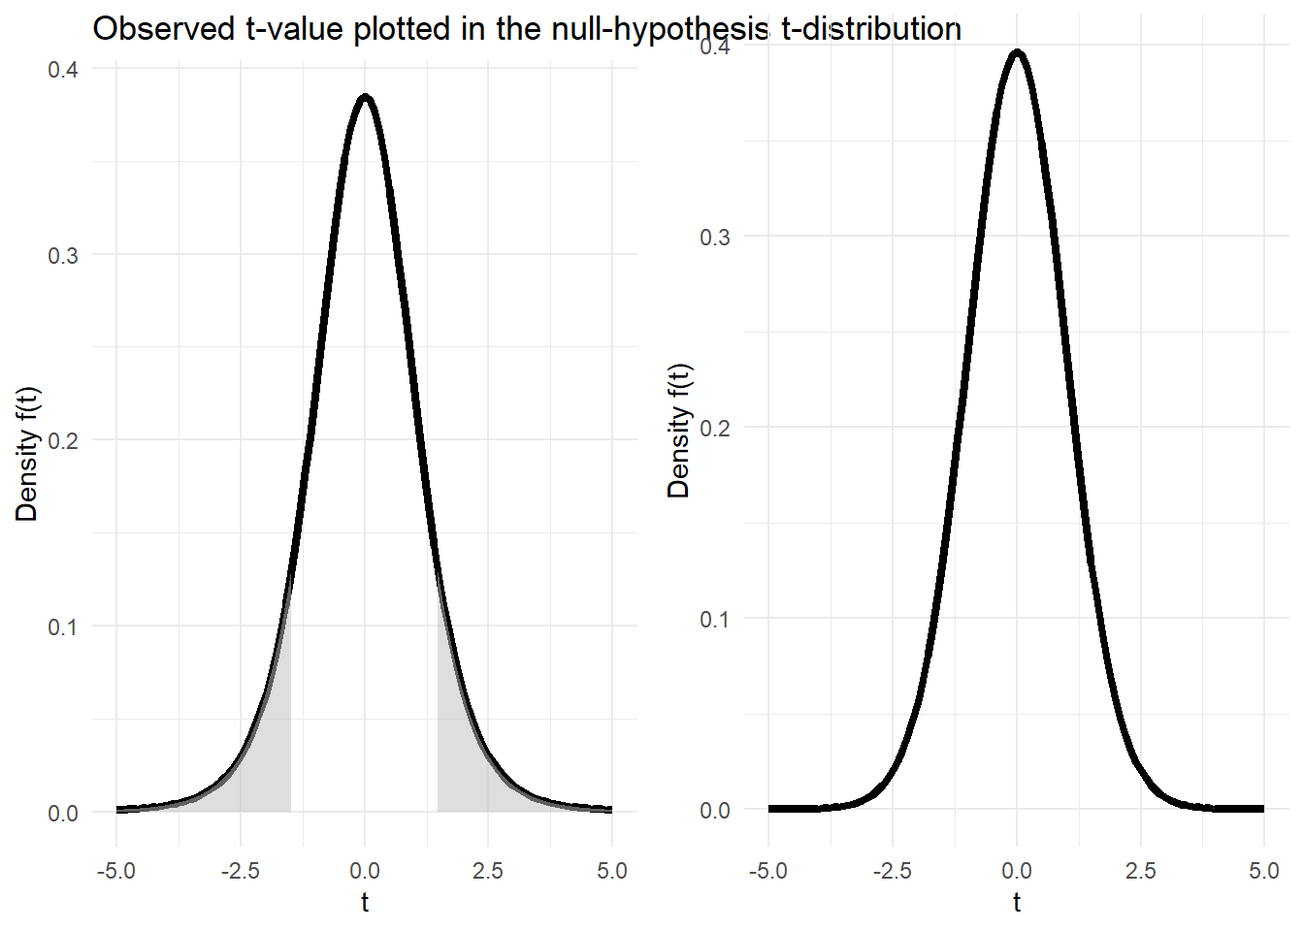
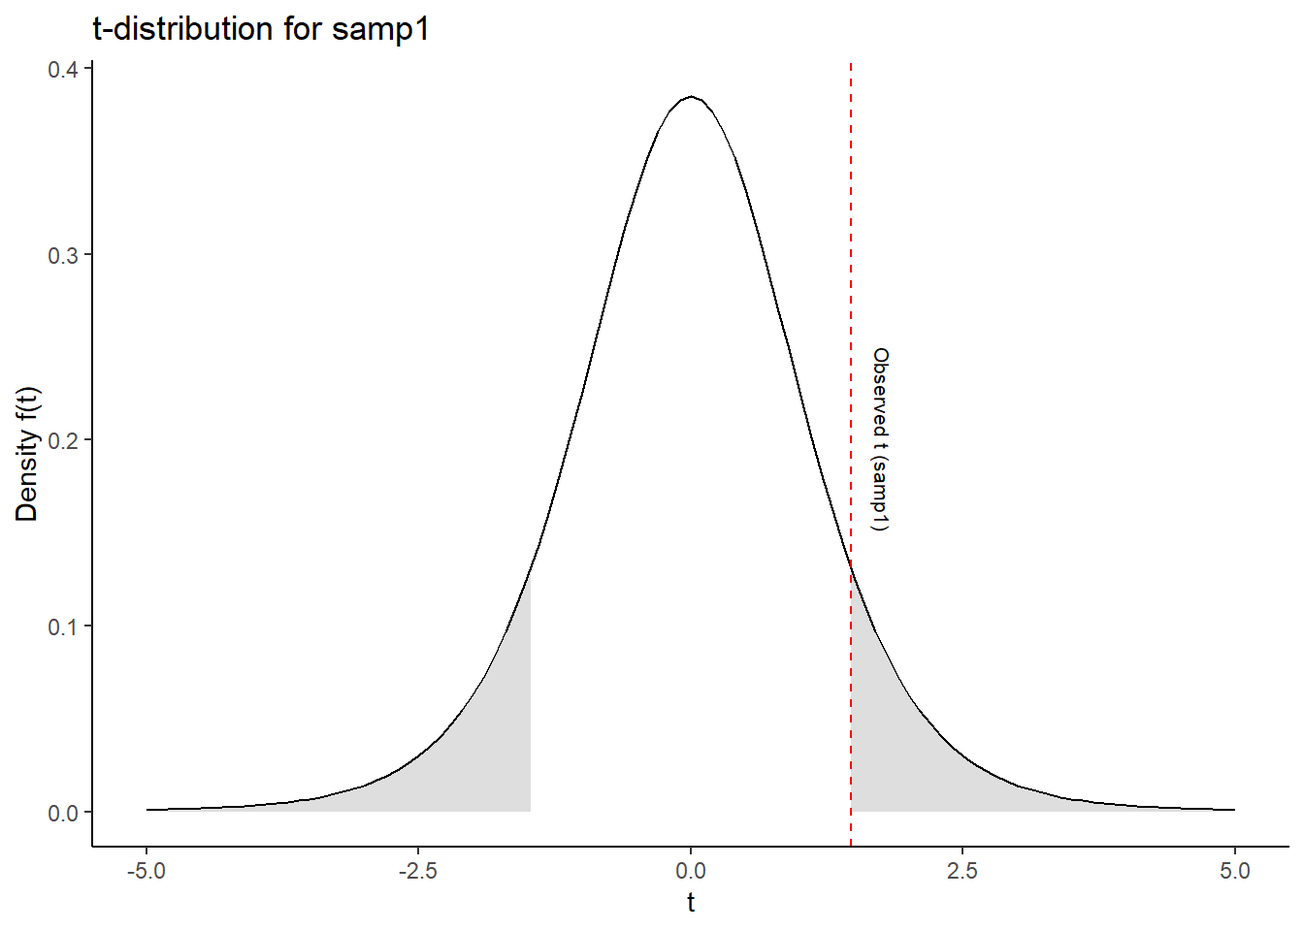
La til referanser, samt gjorde endringer inne i R-scriptet
La til referanse, og overførte endringene fra R-scriptet over til Quarto.

diff --git a/assignment3.html b/assignment3.html
@@ -55,7 +55,27 @@ div.sourceCode
 @media screen {
 pre > code.sourceCode > span > a:first-child::before { text-decoration: underline; }
 }
-</style>
+/* CSS for citations */
+div.csl-bib-body { }
+div.csl-entry {
+  clear: both;
+  margin-bottom: 0em;
+}
+.hanging-indent div.csl-entry {
+  margin-left:2em;
+  text-indent:-2em;
+}
+div.csl-left-margin {
+  min-width:2em;
+  float:left;
+}
+div.csl-right-inline {
+  margin-left:2em;
+  padding-left:1em;
+}
+div.csl-indent {
+  margin-left: 2em;
+}</style>
 
 
 <script src="assignment3_files/libs/clipboard/clipboard.min.js"></script>
@@ -155,7 +175,7 @@ window.Quarto = {
 <span id="cb1-16"><a href="#cb1-16" aria-hidden="true" tabindex="-1"></a>m1 <span class="ot">&lt;-</span> <span class="fu">lm</span>(y <span class="sc">~</span> <span class="dv">1</span>, <span class="at">data =</span> samp1)</span>
 <span id="cb1-17"><a href="#cb1-17" aria-hidden="true" tabindex="-1"></a>m2 <span class="ot">&lt;-</span> <span class="fu">lm</span>(y <span class="sc">~</span> <span class="dv">1</span>, <span class="at">data =</span> samp2)</span>
 <span id="cb1-18"><a href="#cb1-18" aria-hidden="true" tabindex="-1"></a></span>
-<span id="cb1-19"><a href="#cb1-19" aria-hidden="true" tabindex="-1"></a><span class="co"># Oppsummering av modellen m1</span></span>
+<span id="cb1-19"><a href="#cb1-19" aria-hidden="true" tabindex="-1"></a><span class="co"># Oppsummering av modellene </span></span>
 <span id="cb1-20"><a href="#cb1-20" aria-hidden="true" tabindex="-1"></a><span class="fu">summary</span>(m1)</span></code><button title="Copy to Clipboard" class="code-copy-button"><i class="bi"></i></button></pre></div>
 </details>
 <div class="cell-output cell-output-stdout">
@@ -173,39 +193,59 @@ Coefficients:
 
 Residual standard error: 3.539 on 7 degrees of freedom</code></pre>
 </div>
+<details class="code-fold">
+<summary>Code</summary>
+<div class="sourceCode cell-code" id="cb3"><pre class="sourceCode r code-with-copy"><code class="sourceCode r"><span id="cb3-1"><a href="#cb3-1" aria-hidden="true" tabindex="-1"></a><span class="fu">summary</span>(m2)</span></code><button title="Copy to Clipboard" class="code-copy-button"><i class="bi"></i></button></pre></div>
+</details>
+<div class="cell-output cell-output-stdout">
+<pre><code>
+Call:
+lm(formula = y ~ 1, data = samp2)
+
+Residuals:
+    Min      1Q  Median      3Q     Max 
+-5.6557 -2.2883  0.2636  2.2549  6.4212 
+
+Coefficients:
+            Estimate Std. Error t value Pr(&gt;|t|)   
+(Intercept)   1.5642     0.4774   3.276  0.00221 **
+---
+Signif. codes:  0 '***' 0.001 '**' 0.01 '*' 0.05 '.' 0.1 ' ' 1
+
+Residual standard error: 3.019 on 39 degrees of freedom</code></pre>
+</div>
 </div>
 <p>Under kan man se en …. som viser t-fordelingen av dei ulike lineære modellene, der det skyggelagte området er dei observerte p-verdiene.</p>
 <div class="cell">
 <details class="code-fold">
 <summary>Code</summary>
-<div class="sourceCode cell-code" id="cb3"><pre class="sourceCode r code-with-copy"><code class="sourceCode r"><span id="cb3-1"><a href="#cb3-1" aria-hidden="true" tabindex="-1"></a><span class="co"># Definer t-verdi </span></span>
-<span id="cb3-2"><a href="#cb3-2" aria-hidden="true" tabindex="-1"></a>t_value1 <span class="ot">&lt;-</span> <span class="fl">1.47</span></span>
-<span id="cb3-3"><a href="#cb3-3" aria-hidden="true" tabindex="-1"></a>t_value2 <span class="ot">&lt;-</span> <span class="fl">3.953</span></span>
-<span id="cb3-4"><a href="#cb3-4" aria-hidden="true" tabindex="-1"></a>df1 <span class="ot">&lt;-</span> <span class="dv">7</span>   <span class="co"># Antall frihetsgrader (n-1, her 8-1=7)</span></span>
-<span id="cb3-5"><a href="#cb3-5" aria-hidden="true" tabindex="-1"></a>df2 <span class="ot">&lt;-</span> <span class="dv">39</span>  <span class="co"># Antall frihetsgrader (n-1, her 40-1=39)</span></span>
-<span id="cb3-6"><a href="#cb3-6" aria-hidden="true" tabindex="-1"></a></span>
-<span id="cb3-7"><a href="#cb3-7" aria-hidden="true" tabindex="-1"></a><span class="co"># Lag dataramme for x-verdier</span></span>
-<span id="cb3-8"><a href="#cb3-8" aria-hidden="true" tabindex="-1"></a>x_vals <span class="ot">&lt;-</span> <span class="fu">seq</span>(<span class="sc">-</span><span class="dv">5</span>, <span class="dv">5</span>, <span class="at">length.out =</span> <span class="dv">1000</span>)</span>
-<span id="cb3-9"><a href="#cb3-9" aria-hidden="true" tabindex="-1"></a></span>
-<span id="cb3-10"><a href="#cb3-10" aria-hidden="true" tabindex="-1"></a><span class="co"># Bruk ggplot for å lage en t-fordeling med skyggelagte områder for modell 1</span></span>
-<span id="cb3-11"><a href="#cb3-11" aria-hidden="true" tabindex="-1"></a>plot1 <span class="ot">&lt;-</span> <span class="fu">ggplot</span>(<span class="fu">data.frame</span>(<span class="at">x =</span> x_vals), <span class="fu">aes</span>(<span class="at">x =</span> x)) <span class="sc">+</span></span>
-<span id="cb3-12"><a href="#cb3-12" aria-hidden="true" tabindex="-1"></a>  <span class="fu">stat_function</span>(<span class="at">fun =</span> dt, <span class="at">args =</span> <span class="fu">list</span>(<span class="at">df =</span> df1), <span class="at">color =</span> <span class="st">"black"</span>, <span class="at">size =</span> <span class="fl">1.5</span>) <span class="sc">+</span>  <span class="co"># T-fordelingskurve</span></span>
-<span id="cb3-13"><a href="#cb3-13" aria-hidden="true" tabindex="-1"></a>  <span class="fu">geom_area</span>(<span class="at">data =</span> <span class="fu">subset</span>(<span class="fu">data.frame</span>(<span class="at">x =</span> x_vals), x <span class="sc">&lt;</span> <span class="sc">-</span>t_value1), <span class="fu">aes</span>(<span class="at">x =</span> x, <span class="at">y =</span> <span class="fu">dt</span>(x, df1)), <span class="at">fill =</span> <span class="st">"gray"</span>, <span class="at">alpha =</span> <span class="fl">0.5</span>) <span class="sc">+</span>  <span class="co"># Venstre hale</span></span>
-<span id="cb3-14"><a href="#cb3-14" aria-hidden="true" tabindex="-1"></a>  <span class="fu">geom_area</span>(<span class="at">data =</span> <span class="fu">subset</span>(<span class="fu">data.frame</span>(<span class="at">x =</span> x_vals), x <span class="sc">&gt;</span> t_value1), <span class="fu">aes</span>(<span class="at">x =</span> x, <span class="at">y =</span> <span class="fu">dt</span>(x, df1)), <span class="at">fill =</span> <span class="st">"gray"</span>, <span class="at">alpha =</span> <span class="fl">0.5</span>) <span class="sc">+</span>   <span class="co"># Høyre hale</span></span>
-<span id="cb3-15"><a href="#cb3-15" aria-hidden="true" tabindex="-1"></a>  <span class="fu">labs</span>(<span class="at">title =</span> <span class="st">"Observed t-value plotted in the null-hypothesis t-distribution"</span>, </span>
-<span id="cb3-16"><a href="#cb3-16" aria-hidden="true" tabindex="-1"></a>       <span class="at">x =</span> <span class="st">"t"</span>, <span class="at">y =</span> <span class="st">"Density f(t)"</span>) <span class="sc">+</span></span>
-<span id="cb3-17"><a href="#cb3-17" aria-hidden="true" tabindex="-1"></a>  <span class="fu">theme_minimal</span>()</span>
-<span id="cb3-18"><a href="#cb3-18" aria-hidden="true" tabindex="-1"></a></span>
-<span id="cb3-19"><a href="#cb3-19" aria-hidden="true" tabindex="-1"></a><span class="co"># Gjør det samme for modell 2</span></span>
-<span id="cb3-20"><a href="#cb3-20" aria-hidden="true" tabindex="-1"></a>plot2 <span class="ot">&lt;-</span> <span class="fu">ggplot</span>(<span class="fu">data.frame</span>(<span class="at">x =</span> x_vals), <span class="fu">aes</span>(<span class="at">x =</span> x)) <span class="sc">+</span></span>
-<span id="cb3-21"><a href="#cb3-21" aria-hidden="true" tabindex="-1"></a>  <span class="fu">stat_function</span>(<span class="at">fun =</span> dt, <span class="at">args =</span> <span class="fu">list</span>(<span class="at">df =</span> df2), <span class="at">color =</span> <span class="st">"black"</span>, <span class="at">size =</span> <span class="fl">1.5</span>) <span class="sc">+</span>  <span class="co"># T-fordelingskurve</span></span>
-<span id="cb3-22"><a href="#cb3-22" aria-hidden="true" tabindex="-1"></a>  <span class="fu">geom_area</span>(<span class="at">data =</span> <span class="fu">subset</span>(<span class="fu">data.frame</span>(<span class="at">x =</span> x_vals), x <span class="sc">&lt;</span> <span class="sc">-</span>t_value2), <span class="fu">aes</span>(<span class="at">x =</span> x, <span class="at">y =</span> <span class="fu">dt</span>(x, df2)), <span class="at">fill =</span> <span class="st">"gray"</span>, <span class="at">alpha =</span> <span class="fl">0.5</span>) <span class="sc">+</span>  <span class="co"># Venstre hale</span></span>
-<span id="cb3-23"><a href="#cb3-23" aria-hidden="true" tabindex="-1"></a>  <span class="fu">geom_area</span>(<span class="at">data =</span> <span class="fu">subset</span>(<span class="fu">data.frame</span>(<span class="at">x =</span> x_vals), x <span class="sc">&gt;</span> t_value2), <span class="fu">aes</span>(<span class="at">x =</span> x, <span class="at">y =</span> <span class="fu">dt</span>(x, df2)), <span class="at">fill =</span> <span class="st">"gray"</span>, <span class="at">alpha =</span> <span class="fl">0.5</span>) <span class="sc">+</span>   <span class="co"># Høyre hale</span></span>
-<span id="cb3-24"><a href="#cb3-24" aria-hidden="true" tabindex="-1"></a>   <span class="fu">labs</span>(<span class="at">x =</span> <span class="st">"t"</span>, <span class="at">y =</span> <span class="st">"Density f(t)"</span>) <span class="sc">+</span></span>
-<span id="cb3-25"><a href="#cb3-25" aria-hidden="true" tabindex="-1"></a>  <span class="fu">theme_minimal</span>()</span>
-<span id="cb3-26"><a href="#cb3-26" aria-hidden="true" tabindex="-1"></a></span>
-<span id="cb3-27"><a href="#cb3-27" aria-hidden="true" tabindex="-1"></a><span class="co"># Kombiner de to plott ved siden av hverandre</span></span>
-<span id="cb3-28"><a href="#cb3-28" aria-hidden="true" tabindex="-1"></a><span class="fu">grid.arrange</span>(plot1, plot2, <span class="at">ncol =</span> <span class="dv">2</span>)</span></code><button title="Copy to Clipboard" class="code-copy-button"><i class="bi"></i></button></pre></div>
+<div class="sourceCode cell-code" id="cb5"><pre class="sourceCode r code-with-copy"><code class="sourceCode r"><span id="cb5-1"><a href="#cb5-1" aria-hidden="true" tabindex="-1"></a><span class="do">## Definer t-verdier for begge utvalg</span></span>
+<span id="cb5-2"><a href="#cb5-2" aria-hidden="true" tabindex="-1"></a>t_value1 <span class="ot">&lt;-</span> <span class="fl">1.47</span>  <span class="co"># t-verdi for samp1</span></span>
+<span id="cb5-3"><a href="#cb5-3" aria-hidden="true" tabindex="-1"></a>t_value2 <span class="ot">&lt;-</span> <span class="fl">3.953</span>  <span class="co"># t-verdi for samp2</span></span>
+<span id="cb5-4"><a href="#cb5-4" aria-hidden="true" tabindex="-1"></a>df1 <span class="ot">&lt;-</span> <span class="dv">7</span>   <span class="co"># Antall frihetsgrader for samp1 (n-1, her 8-1=7)</span></span>
+<span id="cb5-5"><a href="#cb5-5" aria-hidden="true" tabindex="-1"></a>df2 <span class="ot">&lt;-</span> <span class="dv">39</span>  <span class="co"># Antall frihetsgrader for samp2 (n-1, her 40-1=39)</span></span>
+<span id="cb5-6"><a href="#cb5-6" aria-hidden="true" tabindex="-1"></a></span>
+<span id="cb5-7"><a href="#cb5-7" aria-hidden="true" tabindex="-1"></a><span class="co"># Lag dataramme for x-verdier</span></span>
+<span id="cb5-8"><a href="#cb5-8" aria-hidden="true" tabindex="-1"></a>x_vals <span class="ot">&lt;-</span> <span class="fu">seq</span>(<span class="sc">-</span><span class="dv">5</span>, <span class="dv">5</span>, <span class="at">length.out =</span> <span class="dv">1000</span>)</span>
+<span id="cb5-9"><a href="#cb5-9" aria-hidden="true" tabindex="-1"></a></span>
+<span id="cb5-10"><a href="#cb5-10" aria-hidden="true" tabindex="-1"></a><span class="co"># Lag plot for samp1</span></span>
+<span id="cb5-11"><a href="#cb5-11" aria-hidden="true" tabindex="-1"></a>plot1 <span class="ot">&lt;-</span> <span class="fu">ggplot</span>(<span class="fu">data.frame</span>(<span class="at">x =</span> x_vals), <span class="fu">aes</span>(x)) <span class="sc">+</span></span>
+<span id="cb5-12"><a href="#cb5-12" aria-hidden="true" tabindex="-1"></a>  <span class="co"># Fyll venstre hale for samp1</span></span>
+<span id="cb5-13"><a href="#cb5-13" aria-hidden="true" tabindex="-1"></a>  <span class="fu">stat_function</span>(<span class="at">fun =</span> dt, <span class="at">args =</span> <span class="fu">list</span>(<span class="at">df =</span> df1), <span class="at">xlim =</span> <span class="fu">c</span>(<span class="sc">-</span><span class="dv">5</span>, <span class="sc">-</span>t_value1), <span class="at">geom =</span> <span class="st">"area"</span>, <span class="at">fill =</span> <span class="st">"gray"</span>, <span class="at">alpha =</span> <span class="fl">0.5</span>) <span class="sc">+</span></span>
+<span id="cb5-14"><a href="#cb5-14" aria-hidden="true" tabindex="-1"></a>  <span class="co"># Fyll høyre hale for samp1</span></span>
+<span id="cb5-15"><a href="#cb5-15" aria-hidden="true" tabindex="-1"></a>  <span class="fu">stat_function</span>(<span class="at">fun =</span> dt, <span class="at">args =</span> <span class="fu">list</span>(<span class="at">df =</span> df1), <span class="at">xlim =</span> <span class="fu">c</span>(t_value1, <span class="dv">5</span>), <span class="at">geom =</span> <span class="st">"area"</span>, <span class="at">fill =</span> <span class="st">"gray"</span>, <span class="at">alpha =</span> <span class="fl">0.5</span>) <span class="sc">+</span></span>
+<span id="cb5-16"><a href="#cb5-16" aria-hidden="true" tabindex="-1"></a>  <span class="co"># Tegn hele t-fordelingskurven for samp1</span></span>
+<span id="cb5-17"><a href="#cb5-17" aria-hidden="true" tabindex="-1"></a>  <span class="fu">stat_function</span>(<span class="at">fun =</span> dt, <span class="at">args =</span> <span class="fu">list</span>(<span class="at">df =</span> df1)) <span class="sc">+</span></span>
+<span id="cb5-18"><a href="#cb5-18" aria-hidden="true" tabindex="-1"></a>  <span class="co"># Legg til den observerte t-verdien som en vertikal linje</span></span>
+<span id="cb5-19"><a href="#cb5-19" aria-hidden="true" tabindex="-1"></a>  <span class="fu">geom_vline</span>(<span class="at">xintercept =</span> t_value1, <span class="at">color =</span> <span class="st">"red"</span>, <span class="at">linetype =</span> <span class="st">"dashed"</span>) <span class="sc">+</span></span>
+<span id="cb5-20"><a href="#cb5-20" aria-hidden="true" tabindex="-1"></a>  <span class="co"># Annoter t-verdien for samp1</span></span>
+<span id="cb5-21"><a href="#cb5-21" aria-hidden="true" tabindex="-1"></a>  <span class="fu">annotate</span>(<span class="st">"text"</span>, <span class="at">x =</span> t_value1 <span class="sc">+</span> <span class="fl">0.3</span>, <span class="at">y =</span> <span class="fl">0.2</span>, <span class="at">label =</span> <span class="st">"Observed t (samp1)"</span>, <span class="at">angle =</span> <span class="sc">-</span><span class="dv">90</span>, <span class="at">size =</span> <span class="fl">2.8</span>) <span class="sc">+</span></span>
+<span id="cb5-22"><a href="#cb5-22" aria-hidden="true" tabindex="-1"></a>  <span class="fu">labs</span>(<span class="at">title =</span> <span class="st">"t-distribution for samp1"</span>, <span class="at">x =</span> <span class="st">"t"</span>, <span class="at">y =</span> <span class="st">"Density f(t)"</span>) <span class="sc">+</span></span>
+<span id="cb5-23"><a href="#cb5-23" aria-hidden="true" tabindex="-1"></a>  <span class="fu">theme_classic</span>() <span class="sc">+</span></span>
+<span id="cb5-24"><a href="#cb5-24" aria-hidden="true" tabindex="-1"></a>  <span class="fu">xlim</span>(<span class="sc">-</span><span class="dv">5</span>, <span class="dv">5</span>)</span>
+<span id="cb5-25"><a href="#cb5-25" aria-hidden="true" tabindex="-1"></a></span>
+<span id="cb5-26"><a href="#cb5-26" aria-hidden="true" tabindex="-1"></a><span class="co"># Print plot1</span></span>
+<span id="cb5-27"><a href="#cb5-27" aria-hidden="true" tabindex="-1"></a><span class="fu">print</span>(plot1)</span></code><button title="Copy to Clipboard" class="code-copy-button"><i class="bi"></i></button></pre></div>
 </details>
 <div class="cell-output-display">
 <div>
@@ -214,15 +254,51 @@ Residual standard error: 3.539 on 7 degrees of freedom</code></pre>
 </figure>
 </div>
 </div>
+<details class="code-fold">
+<summary>Code</summary>
+<div class="sourceCode cell-code" id="cb6"><pre class="sourceCode r code-with-copy"><code class="sourceCode r"><span id="cb6-1"><a href="#cb6-1" aria-hidden="true" tabindex="-1"></a><span class="co"># Utregne p-verdier for m1</span></span>
+<span id="cb6-2"><a href="#cb6-2" aria-hidden="true" tabindex="-1"></a>p1 <span class="ot">&lt;-</span> <span class="dv">2</span> <span class="sc">*</span> <span class="fu">pt</span>(t_value1, <span class="at">df =</span> df1, <span class="at">lower.tail =</span> <span class="cn">FALSE</span>)</span>
+<span id="cb6-3"><a href="#cb6-3" aria-hidden="true" tabindex="-1"></a></span>
+<span id="cb6-4"><a href="#cb6-4" aria-hidden="true" tabindex="-1"></a><span class="co"># Print p-verdier</span></span>
+<span id="cb6-5"><a href="#cb6-5" aria-hidden="true" tabindex="-1"></a><span class="fu">print</span>(p1)</span></code><button title="Copy to Clipboard" class="code-copy-button"><i class="bi"></i></button></pre></div>
+</details>
+<div class="cell-output cell-output-stdout">
+<pre><code>[1] 0.1850231</code></pre>
+</div>
+<details class="code-fold">
+<summary>Code</summary>
+<div class="sourceCode cell-code" id="cb8"><pre class="sourceCode r code-with-copy"><code class="sourceCode r"><span id="cb8-1"><a href="#cb8-1" aria-hidden="true" tabindex="-1"></a><span class="co"># Lag plot for samp2</span></span>
+<span id="cb8-2"><a href="#cb8-2" aria-hidden="true" tabindex="-1"></a>plot2 <span class="ot">&lt;-</span> <span class="fu">ggplot</span>(<span class="fu">data.frame</span>(<span class="at">x =</span> x_vals), <span class="fu">aes</span>(x)) <span class="sc">+</span></span>
+<span id="cb8-3"><a href="#cb8-3" aria-hidden="true" tabindex="-1"></a>  <span class="co"># Fyll venstre hale for samp2</span></span>
+<span id="cb8-4"><a href="#cb8-4" aria-hidden="true" tabindex="-1"></a>  <span class="fu">stat_function</span>(<span class="at">fun =</span> dt, <span class="at">args =</span> <span class="fu">list</span>(<span class="at">df =</span> df2), <span class="at">xlim =</span> <span class="fu">c</span>(<span class="sc">-</span><span class="dv">5</span>, <span class="sc">-</span>t_value2), <span class="at">geom =</span> <span class="st">"area"</span>, <span class="at">fill =</span> <span class="st">"lightblue"</span>, <span class="at">alpha =</span> <span class="fl">0.5</span>) <span class="sc">+</span></span>
+<span id="cb8-5"><a href="#cb8-5" aria-hidden="true" tabindex="-1"></a>  <span class="co"># Fyll høyre hale for samp2</span></span>
+<span id="cb8-6"><a href="#cb8-6" aria-hidden="true" tabindex="-1"></a>  <span class="fu">stat_function</span>(<span class="at">fun =</span> dt, <span class="at">args =</span> <span class="fu">list</span>(<span class="at">df =</span> df2), <span class="at">xlim =</span> <span class="fu">c</span>(t_value2, <span class="dv">5</span>), <span class="at">geom =</span> <span class="st">"area"</span>, <span class="at">fill =</span> <span class="st">"lightblue"</span>, <span class="at">alpha =</span> <span class="fl">0.5</span>) <span class="sc">+</span></span>
+<span id="cb8-7"><a href="#cb8-7" aria-hidden="true" tabindex="-1"></a>  <span class="co"># Tegn hele t-fordelingskurven for samp2</span></span>
+<span id="cb8-8"><a href="#cb8-8" aria-hidden="true" tabindex="-1"></a>  <span class="fu">stat_function</span>(<span class="at">fun =</span> dt, <span class="at">args =</span> <span class="fu">list</span>(<span class="at">df =</span> df2)) <span class="sc">+</span></span>
+<span id="cb8-9"><a href="#cb8-9" aria-hidden="true" tabindex="-1"></a>  <span class="co"># Legg til den observerte t-verdien som en vertikal linje</span></span>
+<span id="cb8-10"><a href="#cb8-10" aria-hidden="true" tabindex="-1"></a>  <span class="fu">geom_vline</span>(<span class="at">xintercept =</span> t_value2, <span class="at">color =</span> <span class="st">"red"</span>, <span class="at">linetype =</span> <span class="st">"dashed"</span>) <span class="sc">+</span></span>
+<span id="cb8-11"><a href="#cb8-11" aria-hidden="true" tabindex="-1"></a>  <span class="co"># Annoter t-verdien for samp2</span></span>
+<span id="cb8-12"><a href="#cb8-12" aria-hidden="true" tabindex="-1"></a>  <span class="fu">annotate</span>(<span class="st">"text"</span>, <span class="at">x =</span> t_value2 <span class="sc">+</span> <span class="fl">0.3</span>, <span class="at">y =</span> <span class="fl">0.2</span>, <span class="at">label =</span> <span class="st">"Observed t (samp2)"</span>, <span class="at">angle =</span> <span class="sc">-</span><span class="dv">90</span>, <span class="at">size =</span> <span class="fl">2.8</span>) <span class="sc">+</span></span>
+<span id="cb8-13"><a href="#cb8-13" aria-hidden="true" tabindex="-1"></a>  <span class="fu">labs</span>(<span class="at">title =</span> <span class="st">"t-distribution for samp2"</span>, <span class="at">x =</span> <span class="st">"t"</span>, <span class="at">y =</span> <span class="st">"Density f(t)"</span>) <span class="sc">+</span></span>
+<span id="cb8-14"><a href="#cb8-14" aria-hidden="true" tabindex="-1"></a>  <span class="fu">theme_classic</span>() <span class="sc">+</span></span>
+<span id="cb8-15"><a href="#cb8-15" aria-hidden="true" tabindex="-1"></a>  <span class="fu">xlim</span>(<span class="sc">-</span><span class="dv">6</span>, <span class="dv">6</span>)</span>
+<span id="cb8-16"><a href="#cb8-16" aria-hidden="true" tabindex="-1"></a></span>
+<span id="cb8-17"><a href="#cb8-17" aria-hidden="true" tabindex="-1"></a><span class="co"># Utregne p-verdi for m2</span></span>
+<span id="cb8-18"><a href="#cb8-18" aria-hidden="true" tabindex="-1"></a>p2 <span class="ot">&lt;-</span> <span class="dv">2</span> <span class="sc">*</span> <span class="fu">pt</span>(t_value2, <span class="at">df =</span> df2, <span class="at">lower.tail =</span> <span class="cn">FALSE</span>)</span>
+<span id="cb8-19"><a href="#cb8-19" aria-hidden="true" tabindex="-1"></a></span>
+<span id="cb8-20"><a href="#cb8-20" aria-hidden="true" tabindex="-1"></a><span class="co"># Print p-verdier</span></span>
+<span id="cb8-21"><a href="#cb8-21" aria-hidden="true" tabindex="-1"></a><span class="fu">print</span>(p2)</span></code><button title="Copy to Clipboard" class="code-copy-button"><i class="bi"></i></button></pre></div>
+</details>
+<div class="cell-output cell-output-stdout">
+<pre><code>[1] 0.0003150928</code></pre>
+</div>
 </div>
 <p>Svar på spørsmålene:</p>
 <ol type="1">
-<li>Explain the estimate, SE, <em>t</em>-value, and <em>p</em>-value from the regression models that we created previously (<code>m1</code> and <code>m2</code>).
-<ul>
-<li><p><u><strong>Estimate</strong></u>: Den estimerte koeffisienten er selve gjennomsnittet av den avhengige variabelen i datasettet. Basert på utvalget (enten samp1 eller samp2), forteller den estimerte koeffisienten den sanne middelverdien i populasjonen <code>rnorm</code>. I vår modell vil den estimerte koeffisienten være lik gjennomsnittet av y.</p></li>
-<li><p><u>**Std.Error**</u>: Standardfeilen måler kor mykje estimatet forventes å variere fra utvalg til utvalg. I vårt tilfelle, vil standardfeilen si kor mykje gjennomsnittet i utvalget vårt er forventet å variere fra utvalg til utvalg grunnet tilfeldig variasjon i datatene. SE beregnes slik:</p></li>
-</ul></li>
+<li>Explain the estimate, SE, <em>t</em>-value, and <em>p</em>-value from the regression models that we created previously (<code>m1</code> and <code>m2</code>).</li>
 </ol>
+<p><u><strong>Estimate</strong></u>: Den estimerte koeffisienten representerer i regresjonsanalyser med to variabler kor mykje vi kan forvente at den avhengige variabelen endrer seg per endring i den uavhengie variabelen (<span class="citation" data-cites="spieg2019">Spiegelhalter (<a href="#ref-spieg2019" role="doc-biblioref">2019</a>)</span>, s.275). I våre datasettene over, vil <em>estimate</em> derimot korrespondere til gjennomsnittet av alle verdiene i dei ulike utvalgene, og gi oss et estimat på gjennomsnittet til populasjonen. I samp1 er utvalgets gjennomsnitt 1.84 noe som er litt ifra populasjonens faktiske gjennomsnitt på 1.5, men når vi øker størrelsen på utvalget, slik som i samp2, ser vi at gjennomsnittet nærmer seg veldig populasjonen: samp2 (1.564161) vs <span class="math inline">\(\mu\)</span>(1.5).</p>
+<p><u><strong>Std.Error</strong></u>: Standardfeilen måler kor mykje estimatet forventes å variere fra utvalg til utvalg (<span class="citation" data-cites="spieg2019">Spiegelhalter (<a href="#ref-spieg2019" role="doc-biblioref">2019</a>)</span>, s.231, 403-4). I vårt tilfelle, vil standardfeilen si kor mykje gjennomsnittet i utvalget vårt er forventet å variere fra utvalg til utvalg grunnet tilfeldig variasjon i datatene. SE beregnes slik:</p>
 <p><span class="math display">\[
 \text{SE} = \frac{s}{\sqrt{n}}
 \]</span></p>
@@ -231,9 +307,14 @@ Residual standard error: 3.539 on 7 degrees of freedom</code></pre>
 <li>(s ) er standardavviket til utvalget</li>
 <li>( n ) er antall observasjoner</li>
 </ul>
+
 </section>
 
-</main>
+<div id="quarto-appendix" class="default"><section class="quarto-appendix-contents" role="doc-bibliography" id="quarto-bibliography"><h2 class="anchored quarto-appendix-heading">References</h2><div id="refs" class="references csl-bib-body hanging-indent" data-entry-spacing="0" data-line-spacing="2" role="list">
+<div id="ref-spieg2019" class="csl-entry" role="listitem">
+Spiegelhalter, D. J. (2019). <em>The art of statistics : Learning from data</em> (1th ed.). Pelican.
+</div>
+</div></section></div></main>
 <!-- /main column -->
 <script id="quarto-html-after-body" type="application/javascript">
 window.document.addEventListener("DOMContentLoaded", function (event) {
